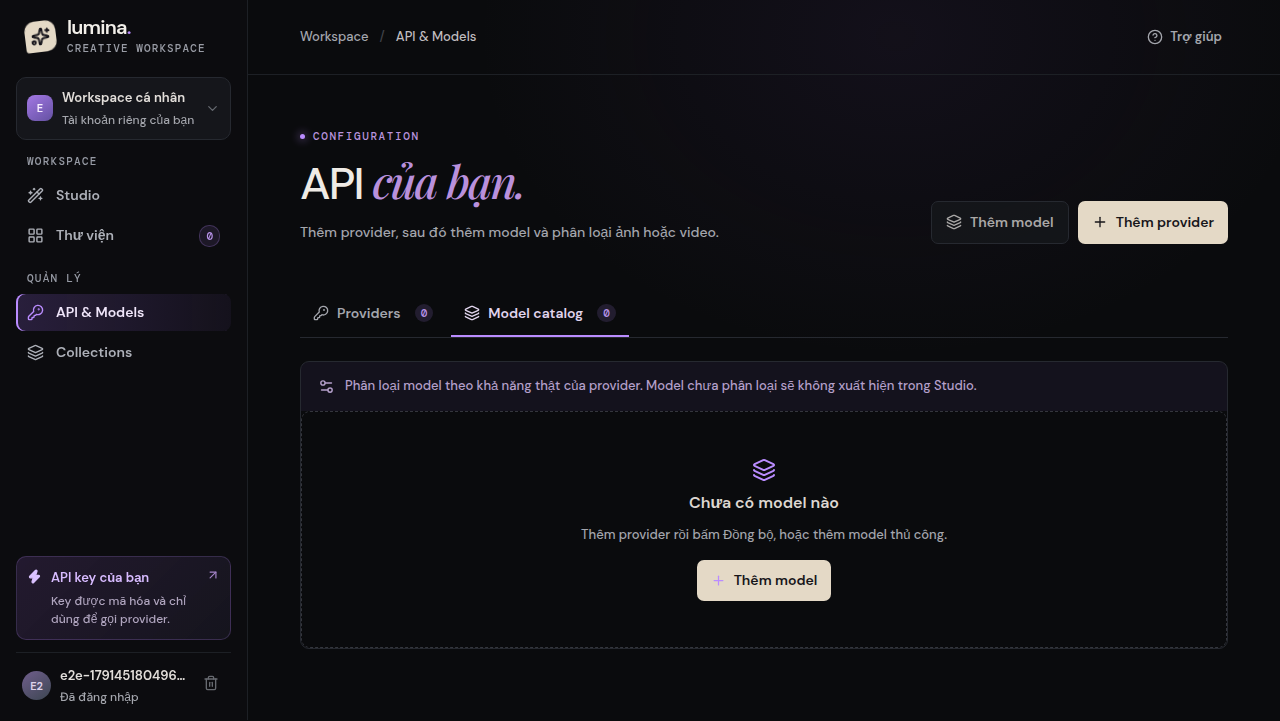
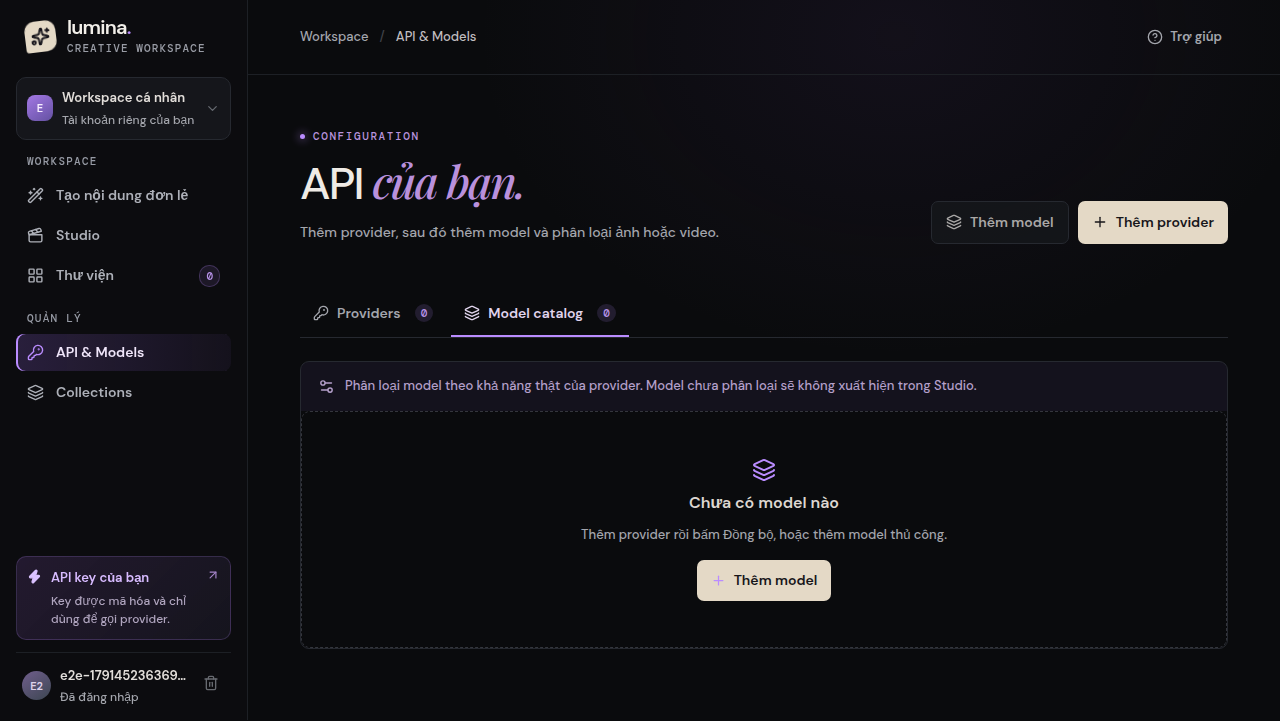
Đưa Tạo nội dung đơn lẻ thành mục riêng trên sidebar
Trước đây đây là nút gạt nằm trên nội dung Studio, trạng thái gạt còn được
giữ lại khi đi sang trang khác nên bấm "Studio" đôi khi quay về chế độ đơn lẻ
thay vì Studio dự án — khó đoán.

- Thêm trang 'quick' vào điều hướng, mục "Tạo nội dung đơn lẻ" nằm trên Studio
- Bỏ hẳn nút gạt và state standalone
- "Studio" giờ luôn mở Studio dự án
- Đổi icon Studio sang Clapperboard để phân biệt với WandSparkles của mục đơn lẻ
- Bỏ CSS .studio-switch không còn dùng

Cập nhật test theo hành vi mới: các bài trước đây dựa vào việc bấm "Studio"
quay lại chế độ đơn lẻ nay điều hướng thẳng tới mục tương ứng; bài trên điện
thoại mở menu trước vì sidebar bị ẩn. Thêm test xác minh thứ tự hai mục và
việc chuyển đổi giữa hai chế độ.

Kiểm thử: 133 test backend và 48 test giao diện.

diff --git a/tests/layout.spec.ts b/tests/layout.spec.ts
@@ -24,6 +24,8 @@ test.describe('Layout', () => {
     test(`không tràn ngang ở ${viewport.name}`, async ({ page }) => {
       await page.setViewportSize({ width: viewport.width, height: viewport.height })
       await page.goto(BASE)
+      // Trên điện thoại sidebar bị ẩn nên phải mở menu trước khi điều hướng.
+      if (viewport.width < 760) await page.getByRole('button', { name: 'Mở menu' }).click()
       await page.getByRole('button', { name: 'Tạo nội dung đơn lẻ', exact: true }).click()
       await noHorizontalOverflow(page)
 
@@ -44,7 +46,8 @@ test.describe('Layout', () => {
   test('modal vừa màn hình điện thoại nhỏ', async ({ page }) => {
     await page.setViewportSize({ width: 320, height: 640 })
     await page.goto(BASE)
-      await page.getByRole('button', { name: 'Tạo nội dung đơn lẻ', exact: true }).click()
+    await page.getByRole('button', { name: 'Mở menu' }).click()
+    await page.getByRole('button', { name: 'Tạo nội dung đơn lẻ', exact: true }).click()
     await page.getByRole('button', { name: 'Mở menu' }).click()
     await page.getByRole('button', { name: 'API & Models', exact: true }).click()
     await page.getByRole('button', { name: 'Thêm provider' }).first().click()
@@ -59,7 +62,6 @@ test.describe('Layout', () => {
   test('sidebar ẩn mặc định trên điện thoại và hiện khi mở menu', async ({ page }) => {
     await page.setViewportSize({ width: 390, height: 844 })
     await page.goto(BASE)
-      await page.getByRole('button', { name: 'Tạo nội dung đơn lẻ', exact: true }).click()
 
     const sidebar = page.locator('.sidebar')
     await expect(sidebar).not.toHaveClass(/sidebar-open/)

diff --git a/src/App.tsx b/src/App.tsx
@@ -20,7 +20,6 @@ export default function App() {
   const [booting, setBooting] = useState(true)
   const [page, setPage] = useState<Page>('studio')
   const [mode, setMode] = useState<Mode>('image')
-  const [standalone, setStandalone] = useState(false)
   const [navOpen, setNavOpen] = useState(false)
 
   const [providers, setProviders] = useState<Provider[]>([])
@@ -351,9 +350,18 @@ export default function App() {
       <main className="main-area">
         <Topbar page={page} onToggleNav={() => setNavOpen((open) => !open)} onNotify={notify} />
 
-        {page === 'studio' && <div className="studio-switch"><button className="secondary-button" onClick={() => setStandalone(!standalone)}>{standalone ? 'Quản lý project' : 'Tạo nội dung đơn lẻ'}</button></div>}
-        {page === 'studio' && !standalone && <Suspense fallback={<div className="empty-state">Đang tải Studio dự án…</div>}><ProjectStudio models={models} onOpenSettings={() => setPage('settings')} onNotify={notify} onCreated={(generation) => setGenerations((current) => [generation, ...current])} /></Suspense>}
-        {page === 'studio' && standalone && (
+        {page === 'studio' && (
+          <Suspense fallback={<div className="empty-state">Đang tải Studio dự án…</div>}>
+            <ProjectStudio
+              models={models}
+              onOpenSettings={() => setPage('settings')}
+              onNotify={notify}
+              onCreated={(generation) => setGenerations((current) => [generation, ...current])}
+            />
+          </Suspense>
+        )}
+
+        {page === 'quick' && (
           <StudioPage
             mode={mode}
             onModeChange={setMode}

diff --git a/src/styles.css b/src/styles.css
@@ -250,7 +250,6 @@ button { font-weight: 600; }
 .creation-hover button:disabled { opacity: .4; cursor: not-allowed; }
 .not-connected-pill { cursor: default; }
 
-.studio-switch { max-width: 1280px; margin: 18px auto 0; padding: 0 32px; display: flex; justify-content: flex-end; }
 .project-studio { max-width: 1280px; margin: auto; padding: 28px 32px 60px; }
 .project-studio h1 { font-size: 32px; margin: 0 0 10px; }
 .project-studio h2 { font-size: 24px; margin: 0 0 8px; }
@@ -280,13 +279,11 @@ button { font-weight: 600; }
 .project-version.selected { outline: 2px solid var(--accent); border-radius: 12px; }
 .project-modal { width: min(100%,600px); }
 @media (max-width: 900px) { .project-layout { grid-template-columns: 1fr; } }
-@media (max-width: 760px) { .project-studio { padding: 24px 18px; } .studio-switch { padding: 0 18px; } .project-fields textarea,.project-fields input,.project-fields select { font-size: 16px; } }
+@media (max-width: 760px) { .project-studio { padding: 24px 18px; } .project-fields textarea,.project-fields input,.project-fields select { font-size: 16px; } }
 
 .creation-strip .creation-card, .library-grid .creation-card { display: flex; flex-direction: column; }
 
 /* Studio v2: media-first workspace, clear action hierarchy and progressive controls. */
-.studio-switch { max-width: 1600px; padding: 0 36px; margin-top: 16px; }
-.studio-switch button { background: transparent; color: #a9a6b3; border-color: transparent; font-size: 12px; }
 .project-studio { max-width: 1600px; padding: 24px 36px 64px; }
 .project-studio h1 { font-size: clamp(28px,3vw,38px); letter-spacing: -1.2px; }
 .project-studio h2 { letter-spacing: -.6px; }

diff --git a/tests/flows.spec.ts b/tests/flows.spec.ts
@@ -11,7 +11,6 @@ test('model video chỉ xuất hiện ở chế độ video', async ({ page }) =
 
   await page.goto(BASE)
   await page.getByRole('button', { name: 'Tạo nội dung đơn lẻ', exact: true }).click()
-  await page.getByRole('button', { name: 'Studio', exact: true }).click()
 
   // Chế độ ảnh vẫn trống vì chưa có model ảnh.
   await expect(page.getByText('Chưa có model ảnh')).toBeVisible()
@@ -46,7 +45,7 @@ test('đổi phân loại model trong catalog sẽ đưa model vào Studio', asy
   await page.getByLabel('Phân loại Model sau').selectOption('image')
   await expect(page.getByText('Đã cập nhật phân loại model.')).toBeVisible()
 
-  await page.getByRole('button', { name: 'Studio', exact: true }).click()
+  await page.getByRole('button', { name: 'Tạo nội dung đơn lẻ', exact: true }).click()
   await expect(page.locator('select').nth(1).locator('option:checked')).toHaveText('Model sau')
 })
 
@@ -181,6 +180,9 @@ test('đăng xuất đưa về trang đăng nhập', async ({ page }) => {
 test('giao diện điện thoại mở được menu và API & Models', async ({ page }) => {
   await page.setViewportSize({ width: 390, height: 844 })
   await page.goto(BASE)
+
+  // Sidebar ẩn trên điện thoại nên mở menu rồi mới điều hướng được.
+  await page.getByRole('button', { name: 'Mở menu' }).click()
   await page.getByRole('button', { name: 'Tạo nội dung đơn lẻ', exact: true }).click()
 
   await page.getByRole('button', { name: 'Mở menu' }).click()

diff --git a/src/components/Sidebar.tsx b/src/components/Sidebar.tsx
@@ -3,6 +3,7 @@ import {
   ArrowUpRight,
   ChevronDown,
   CircleHelp,
+  Clapperboard,
   KeyRound,
   Layers3,
   LayoutGrid,
@@ -14,7 +15,7 @@ import {
 } from 'lucide-react'
 import type { User } from '../api/types'
 
-export type Page = 'studio' | 'library' | 'settings'
+export type Page = 'quick' | 'studio' | 'library' | 'settings'
 
 export function NavItem({ icon, label, active, count, onClick }: {
   icon: ReactNode
@@ -65,6 +66,12 @@ export function Sidebar({ page, user, creationCount, open, onNavigate, onLogout 
         <div className="nav-label">Workspace</div>
         <NavItem
           icon={<WandSparkles size={17} />}
+          label="Tạo nội dung đơn lẻ"
+          active={page === 'quick'}
+          onClick={() => onNavigate('quick')}
+        />
+        <NavItem
+          icon={<Clapperboard size={17} />}
           label="Studio"
           active={page === 'studio'}
           onClick={() => onNavigate('studio')}
@@ -122,7 +129,14 @@ export function Topbar({ page, onToggleNav, onNotify }: {
   onToggleNav: () => void
   onNotify: (message: string) => void
 }) {
-  const label = page === 'studio' ? 'Studio' : page === 'library' ? 'Thư viện' : 'API & Models'
+  const label =
+    page === 'studio'
+      ? 'Studio'
+      : page === 'quick'
+        ? 'Tạo nội dung đơn lẻ'
+        : page === 'library'
+          ? 'Thư viện'
+          : 'API & Models'
   return (
     <header className="topbar">
       <button className="mobile-menu" onClick={onToggleNav} aria-label="Mở menu">

diff --git a/tests/sidebar.spec.ts b/tests/sidebar.spec.ts
@@ -93,3 +93,30 @@ test.describe('Sidebar', () => {
     await expect(page.locator('.user-row')).toBeVisible()
   })
 })
+
+test('sidebar tách riêng Tạo nội dung đơn lẻ và Studio', async ({ page }) => {
+  await signUpFresh(page)
+  await page.goto(BASE)
+
+  const nav = page.locator('.primary-nav').first()
+  const items = nav.locator('.nav-item')
+  // Mục đơn lẻ phải nằm ngay trên Studio.
+  await expect(items.nth(0)).toContainText('Tạo nội dung đơn lẻ')
+  await expect(items.nth(1)).toContainText('Studio')
+
+  // Mặc định mở Studio dự án.
+  await expect(items.nth(1)).toHaveClass(/active/)
+  await expect(items.nth(0)).not.toHaveClass(/active/)
+
+  // Bấm mục đơn lẻ thì chuyển sang trang riêng, không còn nút gạt cũ.
+  await items.nth(0).click()
+  await expect(page.getByRole('button', { name: 'Tạo hình ảnh' })).toBeVisible()
+  await expect(items.nth(0)).toHaveClass(/active/)
+  await expect(items.nth(1)).not.toHaveClass(/active/)
+  await expect(page.locator('.studio-switch')).toHaveCount(0)
+
+  // Quay lại Studio dự án bằng mục Studio.
+  await items.nth(1).click()
+  await expect(page.getByRole('heading', { name: 'Dự án sáng tạo' })).toBeVisible()
+  await expect(items.nth(1)).toHaveClass(/active/)
+})

diff --git a/tests/screenshots.spec.ts b/tests/screenshots.spec.ts
@@ -48,7 +48,7 @@ test('chụp ảnh giao diện', async ({ page }) => {
   await page.screenshot({ path: 'shots/07-providers-filled.png', fullPage: true })
 
   // Tạo một ảnh thật để chụp trạng thái có kết quả.
-  await page.getByRole('button', { name: 'Studio', exact: true }).click()
+  await page.getByRole('button', { name: 'Tạo nội dung đơn lẻ', exact: true }).click()
   await page.getByPlaceholder('Mô tả điều bạn muốn tạo...').fill('Một buổi sáng yên bình ở Đà Lạt')
   await page.getByRole('button', { name: 'Tạo hình ảnh' }).click()
   await page.waitForTimeout(2500)

diff --git a/tests/ui.spec.ts b/tests/ui.spec.ts
@@ -60,7 +60,7 @@ test.describe('Workspace / API & Models', () => {
     await expect(page.getByText('Model ảnh của tôi')).toBeVisible()
 
     // Model đã phân loại phải xuất hiện trong Studio.
-    await page.getByRole('button', { name: 'Studio', exact: true }).click()
+    await page.getByRole('button', { name: 'Tạo nội dung đơn lẻ', exact: true }).click()
     const modelSelect = page.locator('select').nth(1)
     await expect(modelSelect.locator('option:checked')).toHaveText('Model ảnh của tôi')
     await expect(page.getByText('Chưa có model ảnh')).toHaveCount(0)
